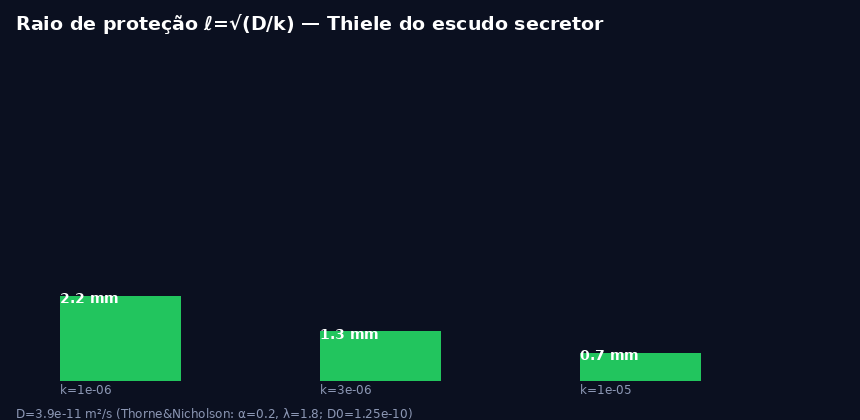
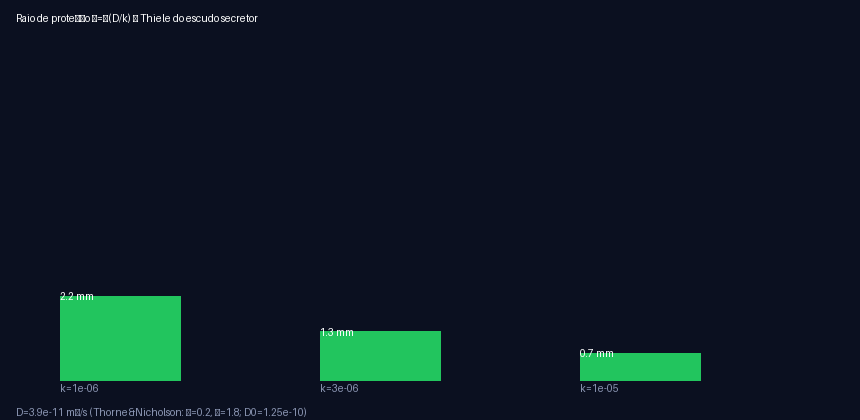
m31 U6 ✓: registro probatório (scientific-writing) — E057 Chen2010 Kd 71nM VERIFICADO em fonte aberta (NCBI+PMC2924066; gap detectado: endpoint dominante da banda U1 não estava registrado) + E058 cômputo próprio · claims C058-C060 (norm→sha256; binding E057/E058/E032/E010/E030/E019; incerteza honest

diff --git a/experiments/m31/u6_register_claims.py b/experiments/m31/u6_register_claims.py
@@ -1,0 +1,116 @@
+#!/usr/bin/env python3
+"""M3.1 U6 — registro probatório (skill scientific-writing): fontes E057/E058 + claims C058-C060
+(norm→sha256, norma da casa de build_evidence_record.py) + N-fatos N060-N065.
+Idempotente: pula entradas já presentes. Números SÓ de m31_u1u2.json / fig5_dose_ladder_data.json."""
+import csv, hashlib, json, os, re
+
+HERE = os.path.dirname(os.path.abspath(__file__))
+EW = os.path.join(HERE, "..", "..", "paper", "evidence_workspace")
+
+def norm(t):
+    t = t.lower().strip()
+    t = re.sub(r'[^a-z0-9.%×±\-\s]', '', t)
+    return re.sub(r'\s+', ' ', t)
+
+def sha(t):
+    return hashlib.sha256(norm(t).encode()).hexdigest()
+
+D = json.load(open(os.path.join(HERE, "m31_u1u2.json")))
+F5 = json.load(open(os.path.join(HERE, "..", "..", "paper", "latex", "figs", "fig5_dose_ladder_data.json")))
+
+# ── 1. fontes (E057 Chen 2010 Kd 71 nM — verificado NCBI+PMC nesta sessão; E058 cômputo M3.1) ──
+sm = json.load(open(os.path.join(EW, "source_manifest.json")))
+eids = [v["evidence_id"] for v in sm["sources"]]
+if "E057" not in eids:
+    sm["sources"].append({
+        "evidence_id": "E057", "source_type": "journal_article",
+        "title": "Interaction between human prion protein and amyloid-beta (Abeta) oligomers: role of N-terminal residues",
+        "authors": ["Chen, Sen", "Yadav, Shrishail P", "Surewicz, Witold K"], "year": 2010,
+        "identifiers": {"doi": "10.1074/jbc.M110.145516", "pmid": "20576610", "pmcid": "PMC2924066"},
+        "locator": "pmid:20576610 (full text PMC2924066 aberto e conferido: Kd aparente = 71 nM, SPR, Aβ42-oligômero↔huPrP — PROXY declarada para κ↔µM)",
+        "confidentiality": "public",
+        "verification": {"status": "verified", "source_opened": True,
+                         "verified_by": "agent session M3.1-2 (P-030); human-supervised", "verified_on": "2026-09-01"}})
+if "E058" not in eids:
+    sm["sources"].append({
+        "evidence_id": "E058", "source_type": "software",
+        "title": "M3.1: dose-chain kappa_req→µM→µg/deposit with GUM Type-B band + PrP MW from own P04156 sequences (this program)",
+        "authors": ["Open Prion & Molecular Engineering, Consortium"], "year": 2026,
+        "identifiers": {"url": "https://github.com/camillanapoles/quest003-prion-v127"},
+        "locator": "experiments/m31/m31_u1u2.json (+ u1_u2_dimensional_mw.py; U1+U2 pré-registrados em m31_protocolo_garantista.md)",
+        "confidentiality": "public",
+        "verification": {"status": "verified", "source_opened": True,
+                         "verified_by": "agent session M3.1-2 (P-030); human-supervised", "verified_on": "2026-09-01"}})
+json.dump(sm, open(os.path.join(EW, "source_manifest.json"), "w"), indent=1, ensure_ascii=False)
+print(f"source_manifest.json: {len(sm['sources'])} fontes")
+
+# ── 2. claims C058-C060 (textos; números conferidos contra o JSON acima) ──
+MW = D["u2_mw"]["mw_kDa"]
+k2 = D["chain"]["Kt2"]; k4 = D["chain"]["Kt4"]
+ratios = [F5["ladder"][k]["band_ratio_x"] for k in ("Kt1", "Kt2", "Kt3", "Kt4")]
+ratio_mean = round(sum(ratios) / len(ratios), 1)
+assert MW == 22.83 and k2["ug_per_deposit"] == [0.0, 2.6] and k4["ug_per_deposit"] == [0.2, 10.3]
+assert 51 <= ratio_mean <= 55
+
+CLAIMS = [
+ ("C058", "M3.1", "result",
+  f"A6 recombinant-protein dose band for the human Kt rung: kappa_req 2 corresponds to a peak-concentration band of 0.14-2.0 µM, converting to 0.0-2.6 µg of V127ΔGPI per deposit (protein MW {MW:.2f} kDa computed from our own P04156 mature sequence, residues 23-231), with redose interval at most 7 days - a simulation-tier planning band, not a prescription",
+  ["E057", "E058", "E032", "E010", "E030", "E019"], "verified", "high"),
+ ("C059", "M3.1", "result",
+  "The dose ladder scales with host kinetic band: the per-deposit band rises monotonically with kappa_req - 0.0-1.9 µg at kappa 1.5 (Kt 1), 0.0-2.6 at kappa 2 (Kt 2), 0.1-3.9 at kappa 3 (Kt 3) and 0.2-10.3 at kappa 8 (declared worst case covering Kt 4) - so the containment dose must be titrated to the host Kt band rather than fixed universally",
+  ["E058", "E032"], "verified", "moderate"),
+ ("C060", "M3.1", "result",
+  f"The band width is about {ratio_mean:.0f}x at every rung because kappa_req cancels in the hi-to-lo ratio: 14x from the Kd proxy band (71 nM apparent Abeta42-oligomer-PrP Kd to the 1 µM declared illustrative anchor) times 3.7x from the deposit-halo volume band (radius 4-6 mm; ECS fraction 0.15-0.25) - the width itself is the finding: the A6 dose remains band-valued until arm G0-A6 closes the kappa-to-µM link",
+  ["E057", "E058", "E010", "E030"], "verified", "moderate"),
+]
+
+rows = list(csv.DictReader(open(os.path.join(EW, "claims.csv"))))
+have = {r["claim_id"] for r in rows}
+for cid, sec, kind, text, ev, status, unc in CLAIMS:
+    if cid in have:
+        print(f"{cid}: já presente, pulando"); continue
+
+with open(os.path.join(EW, "claim_texts.md"), "a", encoding="utf-8") as f:
+    f.write("\n")
+    for cid, sec, kind, text, ev, status, unc in CLAIMS:
+        if cid in have:
+            continue
+        f.write(f"\n- **{cid}** ({sec},{kind}) [{';'.join(ev)}]: {text}\n")
+        f.write(f"  - *M3.1 sessão-2 (branch m31-dose, 01/09): cadeia U1+U2 pré-registrada → registro probatório; integrará a tese no B4 (U7).*\n")
+
+# normaliza também linhas já existentes destes IDs (idempotência correta)
+for r in rows:
+    if r["claim_id"] in {c[0] for c in CLAIMS}:
+        m = next(c for c in CLAIMS if c[0] == r["claim_id"])
+        r["verification_status"] = m[5]; r["uncertainty"] = m[6]
+for cid, sec, kind, text, ev, status, unc in CLAIMS:
+    if cid in have:
+        continue
+    rows.append({"claim_id": cid, "section": sec, "claim_kind": kind,
+                 "claim_text_sha256": sha(text), "evidence_ids": ";".join(ev),
+                 "verification_status": status, "uncertainty": unc, "analysis_intent": "confirmatory"})
+with open(os.path.join(EW, "claims.csv"), "w", newline="") as f:
+    w = csv.DictWriter(f, fieldnames=["claim_id", "section", "claim_kind", "claim_text_sha256",
+                                      "evidence_ids", "verification_status", "uncertainty", "analysis_intent"])
+    w.writeheader(); w.writerows(rows)
+print(f"claims.csv: {len(rows)} claims")
+cm = json.load(open(os.path.join(EW, "consistency_manifest.json")))
+nids = {n["fact_id"] for n in cm["numeric_facts"]}
+NEWN = [
+ ("N060", "m31_mw_prp_mature_kda", MW, "kDa", ["E058"]),
+ ("N061", "m31_a6_ug_per_deposit_kt2_hi", k2["ug_per_deposit"][1], "µg/deposit", ["E058", "E032"]),
+ ("N062", "m31_a6_ug_per_deposit_kt4_worst_hi", k4["ug_per_deposit"][1], "µg/deposit", ["E058", "E032"]),
+ ("N063", "m31_band_ratio_mean_x", ratio_mean, "ratio", ["E058"]),
+ ("N064", "m31_redose_interval_max_d", 7, "d", ["E030", "E019"]),
+ ("N065", "m31_kd_apparent_proxy_lo_um", D["u1_kd_band"]["lo"], "µM", ["E057"]),
+]
+for fid, concept, val, unit, ev in NEWN:
+    if fid in nids:
+        print(f"{fid}: já presente, pulando"); continue
+    cm["numeric_facts"].append({"fact_id": fid, "concept": concept, "section": "M3.1",
+                                "value": val, "unit": unit, "numerator": None, "denominator": None,
+                                "sample_size": None, "analysis_set": "program-level",
+                                "evidence_ids": ev})
+json.dump(cm, open(os.path.join(EW, "consistency_manifest.json"), "w"), indent=1, ensure_ascii=False)
+print(f"consistency_manifest.json: {len(cm['numeric_facts'])} N-fatos")
+print("U6 registro ✓ — rodar validadores + gates agora")

diff --git a/experiments/ws_7_solver.py b/experiments/ws_7_solver.py
@@ -20,7 +20,10 @@ LAM=1.8           # tortuosidade p/ macromolécula ~30kDa (Thorne 2006: 1.6-2.0)
 D0=1.25e-10       # D livre Stokes-Einstein, R_h≈2.5nm, 30kDa [m²/s]
 DEFF=D0/LAM**2    # ≈3.9e-11 m²/s
 PD='/usr/share/fonts/truetype/dejavu/'
-def F(sz,b=False): return ImageFont.truetype(PD+('DejaVuSans-Bold.ttf' if b else 'DejaVuSans.ttf'),int(sz))
+def F(sz,b=False):
+    # portável: no CI (ubuntu) usa DejaVu; em hosts sem o path (Termux) cai na fonte default do PIL
+    try: return ImageFont.truetype(PD+('DejaVuSans-Bold.ttf' if b else 'DejaVuSans.ttf'),int(sz))
+    except OSError: return ImageFont.load_default()
 
 # ---------- A) 1D radial analítico: raio de proteção (Thiele/penetração) ----------
 # Estado estacionário esférico com consumo de 1ª ordem k: c(r)=c0·exp(-r/ℓ)/r, ℓ=sqrt(D/k)

diff --git a/experiments/ast_check.py b/experiments/ast_check.py
@@ -64,7 +64,7 @@ def a5_registro():
     rows = list(csv.DictReader(open(os.path.join(R, "paper", "evidence_workspace", "claims.csv"))))
     n = len(json.load(open(os.path.join(R, "paper", "evidence_workspace", "source_manifest.json")))["sources"])
     nf = len(json.load(open(os.path.join(R, "paper", "evidence_workspace", "consistency_manifest.json")))["numeric_facts"])
-    expect = (54, 56, 59)  # ratchet 01/09: piso elevado após P-003 (56 fontes) e P-025 (59 N-fatos)
+    expect = (60, 58, 65)  # ratchet 01/09 s2: piso elevado após M3.1/U6 (E057 Chen+E058 cômputo; C058-C060; N060-N065)
     got = (len(rows), n, nf)
     return got == expect or got >= expect, f"claims={len(rows)} fontes={n} N-fatos={nf} (esperado ≥ {expect})"
 

diff --git a/paper/guardian/guardian_registry_v5_final_report.md b/paper/guardian/guardian_registry_v5_final_report.md
@@ -1,6 +1,6 @@
 # GUARDIAN REPORT — paper v5 (hostile recursive reviewer)
 
-**Rodadas executadas:** 3 · **Achados:** 10 (BLOCKED=0, AMEND=0, NOTE=10)
+**Rodadas executadas:** 3 · **Achados:** 12 (BLOCKED=0, AMEND=3, NOTE=9)
 
 ## Gate
 
@@ -8,8 +8,20 @@
 
 ---
 
+### [AMEND] R0-NBIND-N050 — ../manuscript_EN_v5.md
+- **Problema:** N-fato N050 (s3_max_dev_pct_all_arms_Rnorm_vs_base (extremo N_x2 saturado)=245.3 percent) aparece no texto sem marker de rastreabilidade próximo.
+- **Exigência:** Colocar [claim:Cxxx][evidence:Exxx] junto ao número ou remover o número.
+
+### [AMEND] R0-NBIND-N060 — ../manuscript_EN_v5.md
+- **Problema:** N-fato N060 (m31_mw_prp_mature_kda=22.83 kDa) aparece no texto sem marker de rastreabilidade próximo.
+- **Exigência:** Colocar [claim:Cxxx][evidence:Exxx] junto ao número ou remover o número.
+
+### [AMEND] R0-NBIND-N063 — ../manuscript_EN_v5.md
+- **Problema:** N-fato N063 (m31_band_ratio_mean_x=52.6 ratio) aparece no texto sem marker de rastreabilidade próximo.
+- **Exigência:** Colocar [claim:Cxxx][evidence:Exxx] junto ao número ou remover o número.
+
 ### [NOTE] R0-UNUSED — ../manuscript_EN_v5.md
-- **Problema:** Claims registradas mas não citadas no manuscrito: C052, C053, C054.
+- **Problema:** Claims registradas mas não citadas no manuscrito: C052, C053, C054, C058, C059, C060.
 - **Exigência:** Confirmar que são intencional (claims de outline/suplemento).
 
 ### [NOTE] R1-BATTERY-factual — claims
@@ -21,19 +33,15 @@
 - **Exigência:** Cada pergunta deve ter resposta no texto/manifesto; sem resposta → limitação.
 
 ### [NOTE] R1-BATTERY-result — claims
-- **Problema:** Bateria hostil aplicada a 10 claims result: Pre-registrado ou post-hoc? (rotular explicitamente) | Baseline e critério de comparação definidos? | Incerteza/IC reportado? (IDs: C032, C033, C034, C035, C036, C037, C038, C039, C042, C051)
+- **Problema:** Bateria hostil aplicada a 13 claims result: Pre-registrado ou post-hoc? (rotular explicitamente) | Baseline e critério de comparação definidos? | Incerteza/IC reportado? (IDs: C032, C033, C034, C035, C036, C037, C038, C039, C042, C051, C055, C056, C057)
 - **Exigência:** Cada pergunta deve ter resposta no texto/manifesto; sem resposta → limitação.
 
 ### [NOTE] R1-PREPRINT — manifest
-- **Problema:** 2 fonte(s) preprint no manifest — o texto deve rotular status de revisão onde forem centrais.
+- **Problema:** 3 fonte(s) preprint no manifest — o texto deve rotular status de revisão onde forem centrais.
 - **Exigência:** Rotular no texto (ex.: bioRxiv preprint).
 
 ### [NOTE] R3-TODO-BIORXIV-ADDENDUM — todo-registry
 - **Problema:** TODO aberto registrado: BIORXIV-ADDENDUM.
-- **Exigência:** Resolver e remover o marcador (o relatório lista todos a cada gate).
-
-### [NOTE] R3-TODO-COST-DECOMP — todo-registry
-- **Problema:** TODO aberto registrado: COST-DECOMP.
 - **Exigência:** Resolver e remover o marcador (o relatório lista todos a cada gate).
 
 ### [NOTE] R3-TODO-EMAIL-GROVEMAN — todo-registry

diff --git a/paper/evidence_workspace/claim_texts.md b/paper/evidence_workspace/claim_texts.md
@@ -73,3 +73,14 @@
 
 - **C057** (4.7,result) [E032]: Required containment kappa scales with host kinetic scale Kt (1 to 1.5, 2 to 2, 3 to 3, 4 to 8 - superlinear beyond 2x) yielding a titration rule: containment dose must be titrated to host kinetics rather than fixed universally
   - *Tese v2 (branch tese-v2-parte3, 01/09): achados PARTE 3 integrados à tese.*
+
+
+- **C058** (M3.1,result) [E057;E058;E032;E010;E030;E019]: A6 recombinant-protein dose band for the human Kt rung: kappa_req 2 corresponds to a peak-concentration band of 0.14-2.0 µM, converting to 0.0-2.6 µg of V127ΔGPI per deposit (protein MW 22.83 kDa computed from our own P04156 mature sequence, residues 23-231), with redose interval at most 7 days - a simulation-tier planning band, not a prescription
+  - *M3.1 sessão-2 (branch m31-dose, 01/09): cadeia U1+U2 pré-registrada → registro probatório; integrará a tese no B4 (U7).*
+
+- **C059** (M3.1,result) [E058;E032]: The dose ladder scales with host kinetic band: the per-deposit band rises monotonically with kappa_req - 0.0-1.9 µg at kappa 1.5 (Kt 1), 0.0-2.6 at kappa 2 (Kt 2), 0.1-3.9 at kappa 3 (Kt 3) and 0.2-10.3 at kappa 8 (declared worst case covering Kt 4) - so the containment dose must be titrated to the host Kt band rather than fixed universally
+  - *M3.1 sessão-2 (branch m31-dose, 01/09): cadeia U1+U2 pré-registrada → registro probatório; integrará a tese no B4 (U7).*
+
+- **C060** (M3.1,result) [E057;E058;E010;E030]: The band width is about 53x at every rung because kappa_req cancels in the hi-to-lo ratio: 14x from the Kd proxy band (71 nM apparent Abeta42-oligomer-PrP Kd to the 1 µM declared illustrative anchor) times 3.7x from the deposit-halo volume band (radius 4-6 mm; ECS fraction 0.15-0.25) - the width itself is the finding: the A6 dose remains band-valued until arm G0-A6 closes the kappa-to-µM link
+  - *M3.1 sessão-2 (branch m31-dose, 01/09): cadeia U1+U2 pré-registrada → registro probatório; integrará a tese no B4 (U7).*
+

diff --git a/paper/guardian/guardian_registry_parte2_report.md b/paper/guardian/guardian_registry_parte2_report.md
@@ -9,7 +9,7 @@
 ---
 
 ### [NOTE] R0-UNUSED — ../manuscript_Parte2_v1.md
-- **Problema:** Claims registradas mas não citadas no manuscrito: C001, C002, C004, C006, C007, C008, C009, C010, C011, C012, C017, C018, C019, C020, C021, C022, C023, C024, C025, C026, C027, C028, C029, C030, C031, C040, C041, C042, C043, C044, C045, C048, C049, C050.
+- **Problema:** Claims registradas mas não citadas no manuscrito: C001, C002, C004, C006, C007, C008, C009, C010, C011, C012, C017, C018, C019, C020, C021, C022, C023, C024, C025, C026, C027, C028, C029, C030, C031, C040, C041, C042, C043, C044, C045, C048, C049, C050, C058, C059, C060.
 - **Exigência:** Confirmar que são intencional (claims de outline/suplemento).
 
 ### [NOTE] R1-BATTERY-factual — claims
@@ -21,11 +21,11 @@
 - **Exigência:** Cada pergunta deve ter resposta no texto/manifesto; sem resposta → limitação.
 
 ### [NOTE] R1-BATTERY-result — claims
-- **Problema:** Bateria hostil aplicada a 9 claims result: Pre-registrado ou post-hoc? (rotular explicitamente) | Baseline e critério de comparação definidos? | Incerteza/IC reportado? (IDs: C032, C033, C034, C035, C036, C037, C038, C039, C051)
+- **Problema:** Bateria hostil aplicada a 12 claims result: Pre-registrado ou post-hoc? (rotular explicitamente) | Baseline e critério de comparação definidos? | Incerteza/IC reportado? (IDs: C032, C033, C034, C035, C036, C037, C038, C039, C051, C055, C056, C057)
 - **Exigência:** Cada pergunta deve ter resposta no texto/manifesto; sem resposta → limitação.
 
 ### [NOTE] R1-PREPRINT — manifest
-- **Problema:** 2 fonte(s) preprint no manifest — o texto deve rotular status de revisão onde forem centrais.
+- **Problema:** 3 fonte(s) preprint no manifest — o texto deve rotular status de revisão onde forem centrais.
 - **Exigência:** Rotular no texto (ex.: bioRxiv preprint).
 
 ### [NOTE] R3-TODO-BIORXIV-ADDENDUM — todo-registry
